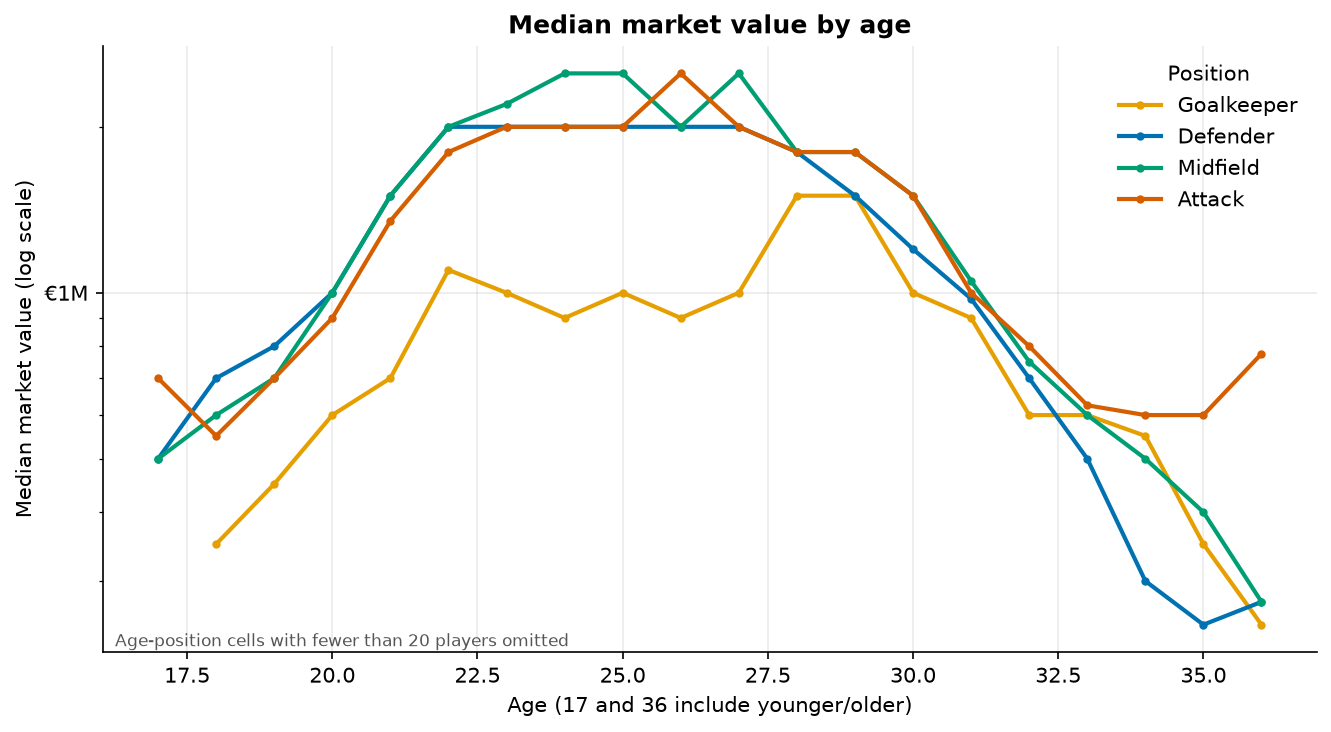
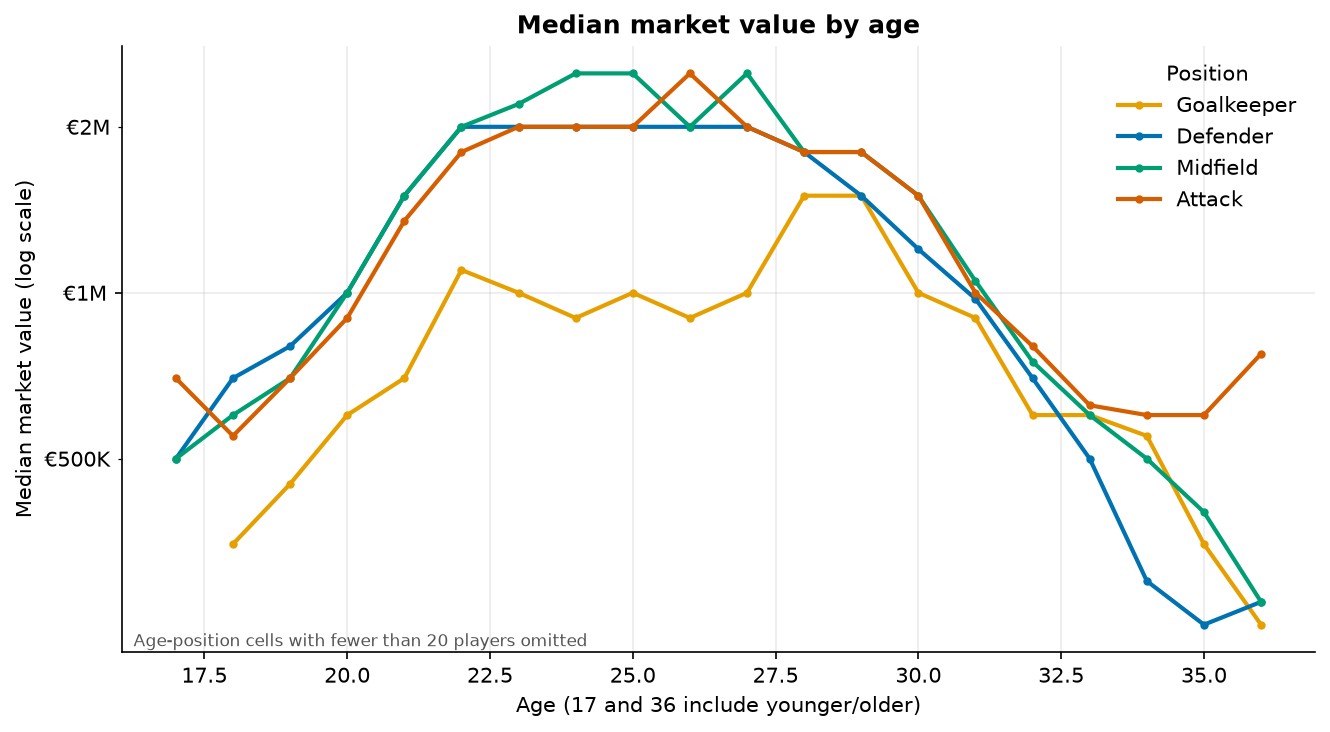
fix(plots): label 2x/5x ticks on the age chart
The age medians span about one decade, so the log axis showed a single
tick label. Regenerates figures/final/02_value_by_age.png.

diff --git a/src/plots.py b/src/plots.py
@@ -6,7 +6,7 @@ figure that says so instead of raising.
 import matplotlib.pyplot as plt
 import numpy as np
 import pandas as pd
-from matplotlib.ticker import FuncFormatter, NullFormatter
+from matplotlib.ticker import FuncFormatter, LogLocator, NullFormatter
 from scipy.stats import spearmanr
 
 from .data import AGE_GROUPS, LOGMV, MV, POS_COLORS, POS_ORDER, SUBPOS_GROUP, eur
@@ -66,6 +66,9 @@ def fig_value_by_age(df, min_n=20):
     for pos, g in lines.items():
         ax.plot(g.index, g["median"], marker="o", ms=3, lw=2, color=POS_COLORS[pos], label=pos)
     _log_axis(ax)
+    # the medians span about one decade, so label 2x and 5x steps too, or only one tick label would show
+    ax.yaxis.set_minor_locator(LogLocator(subs=(2, 5)))
+    ax.yaxis.set_minor_formatter(EUR_AXIS)
     ax.set(title="Median market value by age", xlabel="Age (17 and 36 include younger/older)",
            ylabel="Median market value (log scale)")
     ax.legend(title="Position", frameon=False)
